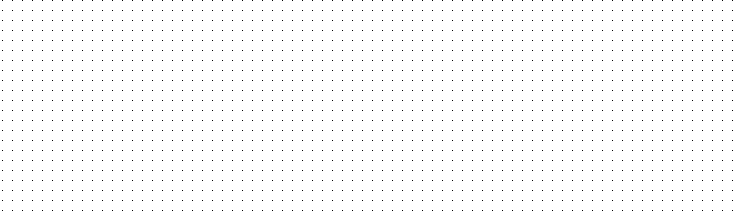
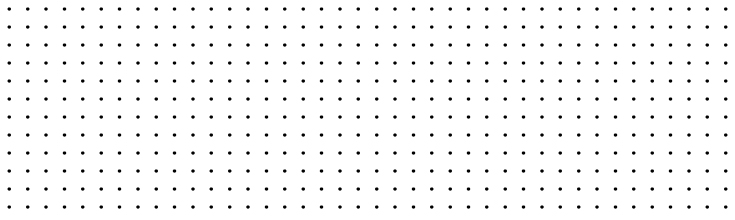
project-description modified, pattern modified

diff --git a/css/custom.min.css b/css/custom.min.css
@@ -1,2 +1,2 @@
-body{scroll-behavior:smooth}strong{color:#565963}strong.style2{color:#F3732A}.dropcap{color:#F3732A;float:left;font-size:85px;line-height:70px;padding-bottom:0;padding-top:6px;padding-right:2px;font-weight:500}@media screen and (min-width: 992px){.dropcap{font-size:130px;line-height:105px;padding-bottom:0;padding-top:2px}}@media (max-width: 480px){.breaktext-sm{display:inline-block}}@media screen and (min-width: 768px){.breaktext-md{display:inline-block}}@media screen and (min-width: 1200px){.breaktext-lg{display:inline-block}}@media screen and (min-width: 1600px){.breaktext-xl{display:inline-block}}.valign-top{vertical-align:top !important}.two-column-section{position:relative;display:block;padding-top:30px;padding-bottom:30px}@media screen and (min-width: 992px){.two-column-section{padding:75px 0}}.two-column-section>.two-column-section-item:not(:first-of-type){padding-top:50px}@media screen and (min-width: 992px){.two-column-section>.two-column-section-item:not(:first-of-type){padding-top:75px}}.btn-one,.btn-one:hover{background-color:#F3732A}.btn-one:hover{background-color:#F3732A !important}.about-style2-image-box .overlay-box .button a span:before{background-color:#F3732A}.scroll-to-top,.scroll-to-top-style2{background-color:#F3732A;border-color:#F3732A}.icon:hover{color:#F3732A !important}a{color:#F3732A}.sec-title p{color:#F3732A}.breadcrumb-area .inner-content-box .title-s2 span{color:#F3732A}.about-style2-text .authorised-info .name p{color:#F3732A}.project-info-content .project-info-title:before{background-color:#F3732A}.main-menu .navigation>li:hover>a,.main-menu .navigation>li.current>a{color:#F3732A}.how-work-box .how-works-content ul li .text span,.how-work-box .how-works-content ul li .icon span:before,.footer-bottom-area .copyright-text p a{color:#F3732A}.how-work-box .how-works-content ul li .text h3{color:#F3732A}.main-menu .navbar-header button.navbar-toggle{background-color:#F3732A;border:none}@media screen and (min-width: 992px){.main-menu .navbar-collapse>.navigation>.dropdown ul{width:300px;padding:5px 10px;-webkit-box-shadow:0 6px 15px rgba(0,0,0,0.08);box-shadow:0 6px 15px rgba(0,0,0,0.08)}}.main-menu .navbar-collapse>.navigation>li:hover,.main-menu .navbar-collapse>.navigation>li:active,.main-menu .navbar-collapse>.navigation>li:visited{background-color:#F3732A}@media screen and (min-width: 992px){.main-menu .navbar-collapse>.navigation>li:hover,.main-menu .navbar-collapse>.navigation>li:active,.main-menu .navbar-collapse>.navigation>li:visited{background-color:unset !important}}.main-menu .navbar-collapse>.navigation>li:hover a:hover,.main-menu .navbar-collapse>.navigation>li:hover a:active,.main-menu .navbar-collapse>.navigation>li:hover a:visited,.main-menu .navbar-collapse>.navigation>li:active a:hover,.main-menu .navbar-collapse>.navigation>li:active a:active,.main-menu .navbar-collapse>.navigation>li:active a:visited,.main-menu .navbar-collapse>.navigation>li:visited a:hover,.main-menu .navbar-collapse>.navigation>li:visited a:active,.main-menu .navbar-collapse>.navigation>li:visited a:visited{background-color:#F3732A !important}@media screen and (min-width: 992px){.main-menu .navbar-collapse>.navigation>li:hover a:hover,.main-menu .navbar-collapse>.navigation>li:hover a:active,.main-menu .navbar-collapse>.navigation>li:hover a:visited,.main-menu .navbar-collapse>.navigation>li:active a:hover,.main-menu .navbar-collapse>.navigation>li:active a:active,.main-menu .navbar-collapse>.navigation>li:active a:visited,.main-menu .navbar-collapse>.navigation>li:visited a:hover,.main-menu .navbar-collapse>.navigation>li:visited a:active,.main-menu .navbar-collapse>.navigation>li:visited a:visited{background-color:unset !important}}.main-menu .navbar-collapse>.navigation>li.current>a{background-color:#F3732A !important}@media screen and (min-width: 992px){.main-menu .navbar-collapse>.navigation>li.current>a{background-color:unset !important}}.header-contact-info li .single-item .text h3{text-transform:none}.main-header .header-upper-style1.fixed-header .logo-box-style1{margin:0}@media screen and (min-width: 768px){.main-header .header-upper-style1.fixed-header .logo-box-style1{top:20px}}.main-header .logo-box-style1{position:absolute;left:10px;top:27px;margin:0;padding:0}.main-header .logo-box-style1 .header__logo{height:25px}@media screen and (min-width: 768px){.main-header .logo-box-style1 .header__logo{height:35px}}.main-header .header-lower-style1 .inner-content{border-right:none}.main-header .header-lower-style1 .inner-content>.header-contact-info{border-left:none}.main-header .header-lower-style1 .inner-content>.header-contact-info>li:last-child{border:none}.main-header .header-lower-style1 .inner-content>.header-contact-info>li:hover .single-item>.icon>span::before{color:#F3732A !important}.main-menu .navigation>li>ul>li>a:hover{color:#F3732A}.main-menu .navigation>li>ul>li>a::after{background:url("/images/icon/dropdown-menu-arrow-orange.png")}.top-bar-style2{background-color:#27282c}.top-bar-style2 .top-style2-left p span::before{color:#F3732A}.top-bar-style2 .top-style2-right .top-right-menu{padding-right:0;margin-right:0}.top-bar-style2 .top-style2-right .top-right-menu::before{content:none}.top-bar-style2 .top-style2-right .top-right-menu li a{color:white}.top-bar-style2 li,.top-bar-style2 p,.top-bar-style2 .top-style2-left li,.top-bar-style2 .top-style2-right li{color:white}.main-header .logo-box-style2{margin:30px 0}.main-header .logo-box-style2 .header__logo{height:25px;width:auto}@media screen and (min-width: 768px){.main-header .logo-box-style2 .header__logo{height:35px}}.breadcrumb-area.breadcrumb-technology{background-image:url(../images/projects/pecsi_kodaly/480/VONALSUGARZO_Kodaly_Pecs_004_480px.jpg)}@media screen and (min-width: 768px){.breadcrumb-area.breadcrumb-technology{background-image:url(../images/projects/pecsi_kodaly/768/VONALSUGARZO_Kodaly_Pecs_004_768px.jpg)}}@media screen and (min-width: 1200px){.breadcrumb-area.breadcrumb-technology{background-image:url(../images/projects/pecsi_kodaly/1024/VONALSUGARZO_Kodaly_Pecs_004_1024px.jpg)}}@media screen and (min-width: 1600px){.breadcrumb-area.breadcrumb-technology{background-image:url(../images/projects/pecsi_kodaly/1680/VONALSUGARZO_Kodaly_Pecs_004_1680px.jpg)}}.breadcrumb-area.breadcrumb-aboutus{background-image:url(../images/projects/pecsi_kodaly/480/VONALSUGARZO_Kodaly_Pecs_004_480px.jpg)}@media screen and (min-width: 768px){.breadcrumb-area.breadcrumb-aboutus{background-image:url(../images/projects/pecsi_kodaly/768/VONALSUGARZO_Kodaly_Pecs_004_768px.jpg)}}@media screen and (min-width: 1200px){.breadcrumb-area.breadcrumb-aboutus{background-image:url(../images/projects/pecsi_kodaly/1024/VONALSUGARZO_Kodaly_Pecs_004_1024px.jpg)}}@media screen and (min-width: 1600px){.breadcrumb-area.breadcrumb-aboutus{background-image:url(../images/projects/pecsi_kodaly/1680/VONALSUGARZO_Kodaly_Pecs_004_1680px.jpg)}}.breadcrumb-area.breadcrumb-references{background-image:url(../images/projects/pecsi_kodaly/480/VONALSUGARZO_Kodaly_Pecs_004_480px.jpg)}@media screen and (min-width: 768px){.breadcrumb-area.breadcrumb-references{background-image:url(../images/projects/pecsi_kodaly/768/VONALSUGARZO_Kodaly_Pecs_004_768px.jpg)}}@media screen and (min-width: 1200px){.breadcrumb-area.breadcrumb-references{background-image:url(../images/projects/pecsi_kodaly/1024/VONALSUGARZO_Kodaly_Pecs_004_1024px.jpg)}}@media screen and (min-width: 1600px){.breadcrumb-area.breadcrumb-references{background-image:url(../images/projects/pecsi_kodaly/1680/VONALSUGARZO_Kodaly_Pecs_004_1680px.jpg)}}.project-description-area{padding-bottom:30px}@media screen and (min-width: 992px){.project-description-area{padding-bottom:75px}}.project-description-area .bottpm-text>p:last-of-type{margin-bottom:0}.sec-text-area .text:first-of-type{padding-top:50px}.sec-text-area .text:not(:last-of-type){padding-bottom:30px}.sec-text-area .text>p{font-size:15px}@media screen and (min-width: 992px){.sec-text-area .text>p{font-size:17px}}.sec-text-area .text>p:not(:last-child){padding-bottom:1.2em}.sec-text-area .text .img-holder{margin-bottom:0;padding-bottom:1.2em}.sec-text-area .lead-text{font-size:17px;line-height:165%}.sec-text-area .sec-title{padding-bottom:1.2em}.sec-text-area .sec-text-lead{font-size:17px}.sec-text-area .sec-text-big{font-size:15px;line-height:165%}.sec-text-area .sec-text-big>p{margin-bottom:1.2em}@media screen and (min-width: 768px){.sec-text-area .sec-text-big{font-size:22px}}.sec-text-area .img-holder{margin-bottom:50px}.breadcrumb-area.style2::after{content:"";position:absolute;top:0;left:0;width:100%;height:100%;background-color:rgba(0,0,0,0.6);display:block;z-index:-1}.single-footer-widget .services-links ul>li>a::before,.single-footer-widget .usefull-links ul>li>a::before{color:#F3732A}.single-footer-widget .services-links ul>li>a:hover::before,.single-footer-widget .services-links ul>li>a:active::before,.single-footer-widget .services-links ul>li>a:focus::before,.single-footer-widget .usefull-links ul>li>a:hover::before,.single-footer-widget .usefull-links ul>li>a:active::before,.single-footer-widget .usefull-links ul>li>a:focus::before{color:#f79956}.single-footer-widget .services-links ul>li.dropdown:hover>ul,.single-footer-widget .services-links ul>li.dropdown:active>ul,.single-footer-widget .services-links ul>li.dropdown:focus>ul,.single-footer-widget .usefull-links ul>li.dropdown:hover>ul,.single-footer-widget .usefull-links ul>li.dropdown:active>ul,.single-footer-widget .usefull-links ul>li.dropdown:focus>ul{display:block}.single-footer-widget .services-links ul>li.dropdown>ul,.single-footer-widget .usefull-links ul>li.dropdown>ul{display:none}.single-footer-widget .services-links ul>li.dropdown>ul>li,.single-footer-widget .usefull-links ul>li.dropdown>ul>li{padding-top:.2em;border-bottom:none;line-height:35px}.single-footer-widget .services-links ul>li.dropdown>ul>li:first-of-type,.single-footer-widget .usefull-links ul>li.dropdown>ul>li:first-of-type{padding-top:.85em}.single-footer-widget .services-links ul>li.dropdown>ul>li a::before,.single-footer-widget .usefull-links ul>li.dropdown>ul>li a::before{content:none}.footer-area,.footer-area.style4{background-color:#27282c}.footer-bottom-area,.footer-bottom-area.style3{background:#1f1f23}.footer-bottom-area .copyright-text p,.footer-bottom-area.style3 .copyright-text p{color:white}.footer-area .footer-shape-bg{background:url("/images/footer/footer-shape.png")}.footer-area .footer-logo img{max-height:50px}.footer-area .single-footer-widget .contact-info-box>ul>li{vertical-align:middle;padding-bottom:15px}.footer-area .single-footer-widget .contact-info-box>ul>li>.icon{vertical-align:middle;display:inline-block;width:42px;font-size:40px;margin-right:.2em}.footer-area .single-footer-widget .contact-info-box>ul>li>.icon>span{display:block}.footer-area .single-footer-widget .contact-info-box>ul>li>.icon>span::before{color:#565963;opacity:1}.footer-area .single-footer-widget .contact-info-box>ul>li>.text{display:inline-block;vertical-align:middle}.footer-area .single-footer-widget .contact-info-box>ul>li>.text>h6{border-bottom-width:1px}.footer-area .single-footer-widget .contact-info-box>ul>li>.text>p{margin-top:4px}.footer-area .single-footer-widget .contact-info-box>ul>li>.text>p>span{display:block;font-size:0.85em;line-height:100%}.footer-area .single-footer-widget .services-links ul li a,.footer-area .single-footer-widget .contact-info-box ul li p,.footer-area .single-footer-widget .our-info-box .text p,.footer-area .single-footer-widget .usefull-links ul li a{color:white}.footer-area .single-footer-widget .contact-info-box ul li h6{border-bottom-color:#565963}.footer-area .single-footer-widget>.title::before{background-color:#565963}.footer-area .single-footer-widget>.title::after{background-color:#565963}.footer-bottom-area .footer-interton-section{display:block;padding-left:15px;padding-right:15px;padding-top:15px}@media screen and (min-width: 768px){.footer-bottom-area .footer-interton-section{padding-left:50px;padding-top:0;padding-right:0}}.footer-bottom-area .footer-interton-section>.img-holder{width:auto;height:45px}.footer-bottom-area .footer-interton-section>.img-holder>img{-o-object-fit:contain;object-fit:contain;height:100%}.footer-area.style4 .footer-logo>a>img{max-height:36px}.footer-bottom-area.style3 .copyright-text{display:inline-block}.footer-bottom-area.style3 .footer-interton-section{display:inline-block;text-align:center}.footer-bottom-area.style3 .footer-interton-section>.img-holder{width:100%}.footer-contact-info-area .single-footer-contact-info>.inner>.icon>span::before{color:#F3732A}.header__logo{-o-object-fit:contain;object-fit:contain;width:165px;max-height:30px}@media screen and (min-width: 768px){.header__logo{width:165px;max-height:unset}}.main-slider .rev_slider .active-revslide .bg-filter{opacity:1;-webkit-transition:all 1s;transition:all 1s}.main-slider .rev_slider .bg-filter{opacity:0;-webkit-transition:all 1s;transition:all 1s;content:"";position:absolute;top:0;left:0;width:100%;height:100%;background-color:rgba(0,0,0,0.6);display:block;z-index:5 !important}.technology-area{background-color:#27282c}.technology-area .about-style2-image-box>.slideInUp{background-color:#1f1f23}.technology-area .about-style2-image-box .overlay-box>.title h1{vertical-align:middle}.technology-area .about-style2-image-box .overlay-box>.title h1>span{top:-2px;line-height:18px;vertical-align:baseline}.technology-area .about-style2-text>.sec-title>p{color:white}.technology-area .about-style2-text>.sec-title>.title{color:white}.technology-area .about-style2-text>.text>p{color:white}.technology-area .text{padding-top:30px}.technology-area .text>p:not(:last-of-type){padding-bottom:1.2em}.technology-area .button{padding-top:0}.products-overview-area .text-holder{z-index:0}.products-overview-area .text-holder>.icon-holder{display:none}.products-overview-area .img-holder{position:relative;overflow:hidden;max-height:250px;min-height:250px}.products-overview-area .img-holder>img{-o-object-fit:cover;object-fit:cover;height:100%;width:100%}.project-filter li:hover .filter-text,.project-filter li.active .filter-text,.filter-text .count{color:#F3732A !important}.project-description-area.product-description-area .img-holder,.project-info-area.product-info-area .img-holder,.about-us-description-area .img-holder{width:100%;position:relative;overflow:hidden;height:350px}@media screen and (min-width: 1200px){.project-description-area.product-description-area .img-holder,.project-info-area.product-info-area .img-holder,.about-us-description-area .img-holder{max-height:unset}}.project-description-area.product-description-area .img-holder>img,.project-info-area.product-info-area .img-holder>img,.about-us-description-area .img-holder>img{-o-object-fit:cover;object-fit:cover;-o-object-position:center;object-position:center;width:100%;position:absolute;top:50%;left:50%;-webkit-transform:translateX(-50%) translateY(-50%);transform:translateX(-50%) translateY(-50%)}.project-description-area.product-description-area .img-holder{overflow:hidden;float:none;position:relative}@media screen and (min-width: 1200px){.project-description-area.product-description-area .img-holder{float:right;width:795px;height:540px}}.project-info-area.product-info-area .img-holder{overflow:hidden;float:none;position:relative}@media screen and (min-width: 1200px){.project-info-area.product-info-area .img-holder{float:left;width:795px;height:540px}}.project-info-area.product-info-area .title>span{display:block}.about-us-description-area .img-holder{overflow:hidden;float:none;position:relative}@media screen and (min-width: 1200px){.about-us-description-area .img-holder{float:right;width:795px;height:540px}}.why-choose-area{padding-top:160px;padding-bottom:160px;position:relative}.why-choose-area::before{content:"";position:absolute;display:block;top:0;left:0;width:100%;height:100%;background-color:rgba(255,255,255,0.65)}.why-choose-area .single-box.orangebg{background-color:#F3732A}.why-choose-area .single-box.orangebg .icon-holder::before{background-color:#f79956}.why-choose-area .single-box.orangebg .text-holder>h3{color:white}.why-choose-area .single-box.whitebg .text-holder>h3{color:#F3732A}.why-choose-area .single-box.whitebg .icon-holder::before{background-color:#fff4ec}.why-choose-area .single-box.whitebg .icon-holder span::before{color:#F3732A}.why-choose-area .single-box.blackbg .text-holder>h3{color:white}.why-choose-area .single-box .text-holder>h3{color:#F3732A}.why-choose-area .why-choose-title ul li::before{color:#F3732A}@media screen and (min-width: 1200px){.why-choose-area .why-choose-title{height:100%;padding-bottom:0px}}.why-choose-area .why-choose-title .sec-title{padding-bottom:30px}.why-choose-area .why-choose-title .sec-title .title{font-size:22px;line-height:165%}.why-choose-area .why-choose-title .button{margin-top:85px;background-color:#F3732A}.why-choose-area .why-choose-title .button::before{background-color:#F3732A}.why-choose-area .why-choose-title .button>a.btn-one{text-transform:none;background-color:#F3732A}.why-choose-area .icon{height:65px}.why-choose-area .icon>img{width:100%;max-width:120px}.testimonial-area .single-testimonial-item .quote-icon{background-color:#F3732A}.testimonial-area .single-testimonial-item .client-info{padding-bottom:0}.testimonial-area .single-testimonial-item .img-box{display:none}.testimonial-area.testimonial-index{padding-bottom:110px}.recently-project-area .single-project-style1{position:relative}.recently-project-area .single-project-style1 .img-holder{width:100%;height:100%;height:300px}.recently-project-area .single-project-style1 .img-holder>img{-o-object-fit:cover;object-fit:cover;-o-object-position:center;object-position:center;height:100%;width:100%}.recently-project-area .single-project-style1 .link-box{display:none !important}.recently-project-area .single-project-style1 .single-project-link{position:absolute;display:block;top:0;left:0;width:100%;height:100%;z-index:100}.recently-project-area.inner-content>.project-row:not(:last-of-type){padding-bottom:110px}.recently-project-area.inner-content .owl-stage-outer{overflow:unset}.recently-project-area.inner-content .owl-dots{display:none !important}.recently-project-area.inner-content .single-project-style1 .img-holder{-webkit-transition:all 0.3s ease;transition:all 0.3s ease}.recently-project-area.inner-content .single-project-style1 .overlay-content{display:none;-webkit-transition:none;transition:none}.recently-project-area.overview-style{padding-top:110px;padding-bottom:70px}.recently-project-area.overview-style .owl-dots{display:none !important}.similar-projects-area{position:relative}.similar-projects-area .img-holder{height:265px}.similar-projects-area .img-holder::before{content:none}.similar-projects-area .img-holder>img{-o-object-fit:cover;object-fit:cover;height:100%;width:100%}.similar-projects-area.similar-projects-subsite.dark{background-color:#27282c;padding-bottom:30px}@media screen and (min-width: 992px){.similar-projects-area.similar-projects-subsite.dark{padding-bottom:50px}}.similar-projects-area.similar-projects-subsite.dark::before{content:"";position:absolute;top:0;right:0;height:100%;width:360px;background:url(../images/footer/footer-shape.png);background-position:top;background-repeat:no-repeat;background-size:initial}.similar-projects-area.similar-projects-subsite.dark::after{content:"";display:block;position:absolute;bottom:0;left:50%;-webkit-transform:translateX(-50%);transform:translateX(-50%);width:100%;height:2px;background:#1f1f23;background:-webkit-gradient(linear, left top, right top, from(rgba(0,0,0,0)), color-stop(50%, rgba(0,0,0,0.2)), to(rgba(0,0,0,0)));background:linear-gradient(90deg, rgba(0,0,0,0) 0%, rgba(0,0,0,0.2) 50%, rgba(0,0,0,0) 100%)}@media screen and (min-width: 992px){.similar-projects-area.similar-projects-subsite.dark::after{width:85%;max-width:850px}}.similar-projects-area.similar-projects-subsite.dark .similar-projects-content .similar-project-title>h2{color:white}.similar-projects-area.similar-projects-subsite.dark .similar-projects-content .title-holder h3,.similar-projects-area.similar-projects-subsite.dark .similar-projects-content .title-holder h3>a{color:white}.similar-projects-area.technology-images-area{padding:50px 0}@media screen and (min-width: 992px){.similar-projects-area.technology-images-area{padding-top:75px}}.similar-projects-area.technology-images-area .single-similar-project{position:relative;z-index:1}.similar-projects-area.technology-images-area .single-similar-project .title-holder h3{font-size:16px}.similar-projects-area.technology-images-area .single-similar-project .img-holder{-webkit-transition:all 0.3s ease;transition:all 0.3s ease}.similar-projects-area.technology-images-area .single-similar-project .img-holder>img{-webkit-transform:none;transform:none}.similar-projects-area.technology-images-area .single-similar-project .img-holder::before{display:none;content:none}.similar-projects-area.technology-images-area .single-similar-project:hover,.similar-projects-area.technology-images-area .single-similar-project:focus,.similar-projects-area.technology-images-area .single-similar-project:active{z-index:10}.similar-projects-area.technology-images-area .single-similar-project:hover .img-holder,.similar-projects-area.technology-images-area .single-similar-project:focus .img-holder,.similar-projects-area.technology-images-area .single-similar-project:active .img-holder{-webkit-transform:scale(1.3);transform:scale(1.3);-webkit-box-shadow:0 0 20px rgba(0,0,0,0.15);box-shadow:0 0 20px rgba(0,0,0,0.15)}.intro-box{-webkit-box-align:start;-ms-flex-align:start;align-items:flex-start}.milestones-area{padding:30px 0}@media screen and (min-width: 992px){.milestones-area{padding:50px 75px}}.milestones-area .milestones-box{position:relative;display:block}.milestones-area .milestones-box .milestones-title{padding-bottom:30px}.milestones-area .milestones-box .milestones-content{position:relative;display:block}.milestones-area .milestones-box .milestones-content ul{position:relative;display:block;overflow:hidden}.milestones-area .milestones-box .milestones-content ul li{position:relative;display:block;padding-left:20px;margin-bottom:26px}.milestones-area .milestones-box .milestones-content ul li .icon{position:absolute;top:2px;left:1px}.milestones-area .milestones-box .milestones-content ul li .icon>span{color:#F3732A}.milestones-area .milestones-box .milestones-content ul li .icon>span::before{font-size:20px}.milestones-area .milestones-box .milestones-content ul li .text{position:relative;display:block;padding-left:20px}.milestones-area .milestones-box .milestones-content ul li .text h3{color:#F3732A}.milestones-area .milestones-box .milestones-content ul li .text p{margin:0}.about-us-exposition-area{position:relative;display:block;margin-top:110px;padding:110px 0 50px}
+body{scroll-behavior:smooth}strong{color:#565963}strong.style2{color:#F3732A}.dropcap{color:#F3732A;float:left;font-size:85px;line-height:70px;padding-bottom:0;padding-top:6px;padding-right:2px;font-weight:500}@media screen and (min-width: 992px){.dropcap{font-size:130px;line-height:105px;padding-bottom:0;padding-top:2px}}@media (max-width: 480px){.breaktext-sm{display:inline-block}}@media screen and (min-width: 768px){.breaktext-md{display:inline-block}}@media screen and (min-width: 1200px){.breaktext-lg{display:inline-block}}@media screen and (min-width: 1600px){.breaktext-xl{display:inline-block}}.valign-top{vertical-align:top !important}.two-column-section{position:relative;display:block;padding-top:30px;padding-bottom:30px}@media screen and (min-width: 992px){.two-column-section{padding:75px 0}}.two-column-section>.two-column-section-item:not(:first-of-type){padding-top:50px}@media screen and (min-width: 992px){.two-column-section>.two-column-section-item:not(:first-of-type){padding-top:75px}}.btn-one,.btn-one:hover{background-color:#F3732A}.btn-one:hover{background-color:#F3732A !important}.about-style2-image-box .overlay-box .button a span:before{background-color:#F3732A}.scroll-to-top,.scroll-to-top-style2{background-color:#F3732A;border-color:#F3732A}.icon:hover{color:#F3732A !important}a{color:#F3732A}.sec-title p{color:#F3732A}.breadcrumb-area .inner-content-box .title-s2 span{color:#F3732A}.about-style2-text .authorised-info .name p{color:#F3732A}.project-info-content .project-info-title:before{background-color:#F3732A}.main-menu .navigation>li:hover>a,.main-menu .navigation>li.current>a{color:#F3732A}.how-work-box .how-works-content ul li .text span,.how-work-box .how-works-content ul li .icon span:before,.footer-bottom-area .copyright-text p a{color:#F3732A}.how-work-box .how-works-content ul li .text h3{color:#F3732A}.main-menu .navbar-header button.navbar-toggle{background-color:#F3732A;border:none}@media screen and (min-width: 992px){.main-menu .navbar-collapse>.navigation>.dropdown ul{width:300px;padding:5px 10px;-webkit-box-shadow:0 6px 15px rgba(0,0,0,0.08);box-shadow:0 6px 15px rgba(0,0,0,0.08)}}.main-menu .navbar-collapse>.navigation>li:hover,.main-menu .navbar-collapse>.navigation>li:active,.main-menu .navbar-collapse>.navigation>li:visited{background-color:#F3732A}@media screen and (min-width: 992px){.main-menu .navbar-collapse>.navigation>li:hover,.main-menu .navbar-collapse>.navigation>li:active,.main-menu .navbar-collapse>.navigation>li:visited{background-color:unset !important}}.main-menu .navbar-collapse>.navigation>li:hover a:hover,.main-menu .navbar-collapse>.navigation>li:hover a:active,.main-menu .navbar-collapse>.navigation>li:hover a:visited,.main-menu .navbar-collapse>.navigation>li:active a:hover,.main-menu .navbar-collapse>.navigation>li:active a:active,.main-menu .navbar-collapse>.navigation>li:active a:visited,.main-menu .navbar-collapse>.navigation>li:visited a:hover,.main-menu .navbar-collapse>.navigation>li:visited a:active,.main-menu .navbar-collapse>.navigation>li:visited a:visited{background-color:#F3732A !important}@media screen and (min-width: 992px){.main-menu .navbar-collapse>.navigation>li:hover a:hover,.main-menu .navbar-collapse>.navigation>li:hover a:active,.main-menu .navbar-collapse>.navigation>li:hover a:visited,.main-menu .navbar-collapse>.navigation>li:active a:hover,.main-menu .navbar-collapse>.navigation>li:active a:active,.main-menu .navbar-collapse>.navigation>li:active a:visited,.main-menu .navbar-collapse>.navigation>li:visited a:hover,.main-menu .navbar-collapse>.navigation>li:visited a:active,.main-menu .navbar-collapse>.navigation>li:visited a:visited{background-color:unset !important}}.main-menu .navbar-collapse>.navigation>li.current>a{background-color:#F3732A !important}@media screen and (min-width: 992px){.main-menu .navbar-collapse>.navigation>li.current>a{background-color:unset !important}}.header-contact-info li .single-item .text h3{text-transform:none}.main-header .header-upper-style1.fixed-header .logo-box-style1{margin:0}@media screen and (min-width: 768px){.main-header .header-upper-style1.fixed-header .logo-box-style1{top:20px}}.main-header .logo-box-style1{position:absolute;left:10px;top:27px;margin:0;padding:0}.main-header .logo-box-style1 .header__logo{height:25px}@media screen and (min-width: 768px){.main-header .logo-box-style1 .header__logo{height:35px}}.main-header .header-lower-style1 .inner-content{border-right:none}.main-header .header-lower-style1 .inner-content>.header-contact-info{border-left:none}.main-header .header-lower-style1 .inner-content>.header-contact-info>li:last-child{border:none}.main-header .header-lower-style1 .inner-content>.header-contact-info>li:hover .single-item>.icon>span::before{color:#F3732A !important}.main-menu .navigation>li>ul>li>a:hover{color:#F3732A}.main-menu .navigation>li>ul>li>a::after{background:url("/images/icon/dropdown-menu-arrow-orange.png")}.top-bar-style2{background-color:#27282c}.top-bar-style2 .top-style2-left p span::before{color:#F3732A}.top-bar-style2 .top-style2-right .top-right-menu{padding-right:0;margin-right:0}.top-bar-style2 .top-style2-right .top-right-menu::before{content:none}.top-bar-style2 .top-style2-right .top-right-menu li a{color:white}.top-bar-style2 li,.top-bar-style2 p,.top-bar-style2 .top-style2-left li,.top-bar-style2 .top-style2-right li{color:white}.main-header .logo-box-style2{margin:30px 0}.main-header .logo-box-style2 .header__logo{height:25px;width:auto}@media screen and (min-width: 768px){.main-header .logo-box-style2 .header__logo{height:35px}}.breadcrumb-area.breadcrumb-technology{background-image:url(../images/projects/pecsi_kodaly/480/VONALSUGARZO_Kodaly_Pecs_004_480px.jpg)}@media screen and (min-width: 768px){.breadcrumb-area.breadcrumb-technology{background-image:url(../images/projects/pecsi_kodaly/768/VONALSUGARZO_Kodaly_Pecs_004_768px.jpg)}}@media screen and (min-width: 1200px){.breadcrumb-area.breadcrumb-technology{background-image:url(../images/projects/pecsi_kodaly/1024/VONALSUGARZO_Kodaly_Pecs_004_1024px.jpg)}}@media screen and (min-width: 1600px){.breadcrumb-area.breadcrumb-technology{background-image:url(../images/projects/pecsi_kodaly/1680/VONALSUGARZO_Kodaly_Pecs_004_1680px.jpg)}}.breadcrumb-area.breadcrumb-aboutus{background-image:url(../images/projects/pecsi_kodaly/480/VONALSUGARZO_Kodaly_Pecs_004_480px.jpg)}@media screen and (min-width: 768px){.breadcrumb-area.breadcrumb-aboutus{background-image:url(../images/projects/pecsi_kodaly/768/VONALSUGARZO_Kodaly_Pecs_004_768px.jpg)}}@media screen and (min-width: 1200px){.breadcrumb-area.breadcrumb-aboutus{background-image:url(../images/projects/pecsi_kodaly/1024/VONALSUGARZO_Kodaly_Pecs_004_1024px.jpg)}}@media screen and (min-width: 1600px){.breadcrumb-area.breadcrumb-aboutus{background-image:url(../images/projects/pecsi_kodaly/1680/VONALSUGARZO_Kodaly_Pecs_004_1680px.jpg)}}.breadcrumb-area.breadcrumb-references{background-image:url(../images/projects/pecsi_kodaly/480/VONALSUGARZO_Kodaly_Pecs_004_480px.jpg)}@media screen and (min-width: 768px){.breadcrumb-area.breadcrumb-references{background-image:url(../images/projects/pecsi_kodaly/768/VONALSUGARZO_Kodaly_Pecs_004_768px.jpg)}}@media screen and (min-width: 1200px){.breadcrumb-area.breadcrumb-references{background-image:url(../images/projects/pecsi_kodaly/1024/VONALSUGARZO_Kodaly_Pecs_004_1024px.jpg)}}@media screen and (min-width: 1600px){.breadcrumb-area.breadcrumb-references{background-image:url(../images/projects/pecsi_kodaly/1680/VONALSUGARZO_Kodaly_Pecs_004_1680px.jpg)}}.project-description-area{padding-bottom:30px}@media screen and (min-width: 992px){.project-description-area{padding-bottom:75px}}.project-description-area .pattern-bg>img{opacity:.2}@media screen and (min-width: 992px){.project-description-area .project-description-content:first-of-type{padding-top:100px}}.project-description-area .project-description-content .bottpm-text>p:last-of-type{margin-bottom:0}.sec-text-area .text:first-of-type{padding-top:50px}.sec-text-area .text:not(:last-of-type){padding-bottom:30px}.sec-text-area .text>p{font-size:15px}@media screen and (min-width: 992px){.sec-text-area .text>p{font-size:17px}}.sec-text-area .text>p:not(:last-child){padding-bottom:1.2em}.sec-text-area .text .img-holder{margin-bottom:0;padding-bottom:1.2em}.sec-text-area .lead-text{font-size:17px;line-height:165%}.sec-text-area .sec-title{padding-bottom:1.2em}.sec-text-area .sec-text-lead{font-size:17px}.sec-text-area .sec-text-big{font-size:15px;line-height:165%}.sec-text-area .sec-text-big>p{margin-bottom:1.2em}@media screen and (min-width: 768px){.sec-text-area .sec-text-big{font-size:22px}}.sec-text-area .img-holder{margin-bottom:50px}.breadcrumb-area.style2::after{content:"";position:absolute;top:0;left:0;width:100%;height:100%;background-color:rgba(0,0,0,0.6);display:block;z-index:-1}.single-footer-widget .services-links ul>li>a::before,.single-footer-widget .usefull-links ul>li>a::before{color:#F3732A}.single-footer-widget .services-links ul>li>a:hover::before,.single-footer-widget .services-links ul>li>a:active::before,.single-footer-widget .services-links ul>li>a:focus::before,.single-footer-widget .usefull-links ul>li>a:hover::before,.single-footer-widget .usefull-links ul>li>a:active::before,.single-footer-widget .usefull-links ul>li>a:focus::before{color:#f79956}.single-footer-widget .services-links ul>li.dropdown:hover>ul,.single-footer-widget .services-links ul>li.dropdown:active>ul,.single-footer-widget .services-links ul>li.dropdown:focus>ul,.single-footer-widget .usefull-links ul>li.dropdown:hover>ul,.single-footer-widget .usefull-links ul>li.dropdown:active>ul,.single-footer-widget .usefull-links ul>li.dropdown:focus>ul{display:block}.single-footer-widget .services-links ul>li.dropdown>ul,.single-footer-widget .usefull-links ul>li.dropdown>ul{display:none}.single-footer-widget .services-links ul>li.dropdown>ul>li,.single-footer-widget .usefull-links ul>li.dropdown>ul>li{padding-top:.2em;border-bottom:none;line-height:35px}.single-footer-widget .services-links ul>li.dropdown>ul>li:first-of-type,.single-footer-widget .usefull-links ul>li.dropdown>ul>li:first-of-type{padding-top:.85em}.single-footer-widget .services-links ul>li.dropdown>ul>li a::before,.single-footer-widget .usefull-links ul>li.dropdown>ul>li a::before{content:none}.footer-area,.footer-area.style4{background-color:#27282c}.footer-bottom-area,.footer-bottom-area.style3{background:#1f1f23}.footer-bottom-area .copyright-text p,.footer-bottom-area.style3 .copyright-text p{color:white}.footer-area .footer-shape-bg{background:url("/images/footer/footer-shape.png")}.footer-area .footer-logo img{max-height:50px}.footer-area .single-footer-widget .contact-info-box>ul>li{vertical-align:middle;padding-bottom:15px}.footer-area .single-footer-widget .contact-info-box>ul>li>.icon{vertical-align:middle;display:inline-block;width:42px;font-size:40px;margin-right:.2em}.footer-area .single-footer-widget .contact-info-box>ul>li>.icon>span{display:block}.footer-area .single-footer-widget .contact-info-box>ul>li>.icon>span::before{color:#565963;opacity:1}.footer-area .single-footer-widget .contact-info-box>ul>li>.text{display:inline-block;vertical-align:middle}.footer-area .single-footer-widget .contact-info-box>ul>li>.text>h6{border-bottom-width:1px}.footer-area .single-footer-widget .contact-info-box>ul>li>.text>p{margin-top:4px}.footer-area .single-footer-widget .contact-info-box>ul>li>.text>p>span{display:block;font-size:0.85em;line-height:100%}.footer-area .single-footer-widget .services-links ul li a,.footer-area .single-footer-widget .contact-info-box ul li p,.footer-area .single-footer-widget .our-info-box .text p,.footer-area .single-footer-widget .usefull-links ul li a{color:white}.footer-area .single-footer-widget .contact-info-box ul li h6{border-bottom-color:#565963}.footer-area .single-footer-widget>.title::before{background-color:#565963}.footer-area .single-footer-widget>.title::after{background-color:#565963}.footer-bottom-area .footer-interton-section{display:block;padding-left:15px;padding-right:15px;padding-top:15px}@media screen and (min-width: 768px){.footer-bottom-area .footer-interton-section{padding-left:50px;padding-top:0;padding-right:0}}.footer-bottom-area .footer-interton-section>.img-holder{width:auto;height:45px}.footer-bottom-area .footer-interton-section>.img-holder>img{-o-object-fit:contain;object-fit:contain;height:100%}.footer-area.style4 .footer-logo>a>img{max-height:36px}.footer-bottom-area.style3 .copyright-text{display:inline-block}.footer-bottom-area.style3 .footer-interton-section{display:inline-block;text-align:center}.footer-bottom-area.style3 .footer-interton-section>.img-holder{width:100%}.footer-contact-info-area .single-footer-contact-info>.inner>.icon>span::before{color:#F3732A}.header__logo{-o-object-fit:contain;object-fit:contain;width:165px;max-height:30px}@media screen and (min-width: 768px){.header__logo{width:165px;max-height:unset}}.main-slider .rev_slider .active-revslide .bg-filter{opacity:1;-webkit-transition:all 1s;transition:all 1s}.main-slider .rev_slider .bg-filter{opacity:0;-webkit-transition:all 1s;transition:all 1s;content:"";position:absolute;top:0;left:0;width:100%;height:100%;background-color:rgba(0,0,0,0.6);display:block;z-index:5 !important}.technology-area{background-color:#27282c}.technology-area .about-style2-image-box>.slideInUp{background-color:#1f1f23}.technology-area .about-style2-image-box .overlay-box>.title h1{vertical-align:middle}.technology-area .about-style2-image-box .overlay-box>.title h1>span{top:-2px;line-height:18px;vertical-align:baseline}.technology-area .about-style2-text>.sec-title>p{color:white}.technology-area .about-style2-text>.sec-title>.title{color:white}.technology-area .about-style2-text>.text>p{color:white}.technology-area .text{padding-top:30px}.technology-area .text>p:not(:last-of-type){padding-bottom:1.2em}.technology-area .button{padding-top:0}.products-overview-area .text-holder{z-index:0}.products-overview-area .text-holder>.icon-holder{display:none}.products-overview-area .img-holder{position:relative;overflow:hidden;max-height:250px;min-height:250px}.products-overview-area .img-holder>img{-o-object-fit:cover;object-fit:cover;height:100%;width:100%}.project-filter li:hover .filter-text,.project-filter li.active .filter-text,.filter-text .count{color:#F3732A !important}.project-description-area.product-description-area .img-holder,.project-info-area.product-info-area .img-holder,.about-us-description-area .img-holder{width:100%;position:relative;overflow:hidden;height:350px}@media screen and (min-width: 1200px){.project-description-area.product-description-area .img-holder,.project-info-area.product-info-area .img-holder,.about-us-description-area .img-holder{max-height:unset}}.project-description-area.product-description-area .img-holder>img,.project-info-area.product-info-area .img-holder>img,.about-us-description-area .img-holder>img{-o-object-fit:cover;object-fit:cover;-o-object-position:center;object-position:center;width:100%;position:absolute;top:50%;left:50%;-webkit-transform:translateX(-50%) translateY(-50%);transform:translateX(-50%) translateY(-50%)}.project-description-area.product-description-area .img-holder{overflow:hidden;float:none;position:relative}@media screen and (min-width: 1200px){.project-description-area.product-description-area .img-holder{float:right;width:795px;height:540px}}.project-info-area.product-info-area .img-holder{overflow:hidden;float:none;position:relative}@media screen and (min-width: 1200px){.project-info-area.product-info-area .img-holder{float:left;width:795px;height:540px}}.project-info-area.product-info-area .title>span{display:block}.about-us-description-area .img-holder{overflow:hidden;float:none;position:relative}@media screen and (min-width: 1200px){.about-us-description-area .img-holder{float:right;width:795px;height:540px}}.why-choose-area{padding-top:160px;padding-bottom:160px;position:relative}.why-choose-area::before{content:"";position:absolute;display:block;top:0;left:0;width:100%;height:100%;background-color:rgba(255,255,255,0.65)}.why-choose-area .single-box.orangebg{background-color:#F3732A}.why-choose-area .single-box.orangebg .icon-holder::before{background-color:#f79956}.why-choose-area .single-box.orangebg .text-holder>h3{color:white}.why-choose-area .single-box.whitebg .text-holder>h3{color:#F3732A}.why-choose-area .single-box.whitebg .icon-holder::before{background-color:#fff4ec}.why-choose-area .single-box.whitebg .icon-holder span::before{color:#F3732A}.why-choose-area .single-box.blackbg .text-holder>h3{color:white}.why-choose-area .single-box .text-holder>h3{color:#F3732A}.why-choose-area .why-choose-title ul li::before{color:#F3732A}@media screen and (min-width: 1200px){.why-choose-area .why-choose-title{height:100%;padding-bottom:0px}}.why-choose-area .why-choose-title .sec-title{padding-bottom:30px}.why-choose-area .why-choose-title .sec-title .title{font-size:22px;line-height:165%}.why-choose-area .why-choose-title .button{margin-top:85px;background-color:#F3732A}.why-choose-area .why-choose-title .button::before{background-color:#F3732A}.why-choose-area .why-choose-title .button>a.btn-one{text-transform:none;background-color:#F3732A}.why-choose-area .icon{height:65px}.why-choose-area .icon>img{width:100%;max-width:120px}.testimonial-area .single-testimonial-item .quote-icon{background-color:#F3732A}.testimonial-area .single-testimonial-item .client-info{padding-bottom:0}.testimonial-area .single-testimonial-item .img-box{display:none}.testimonial-area.testimonial-index{padding-bottom:110px}.recently-project-area .single-project-style1{position:relative}.recently-project-area .single-project-style1 .img-holder{width:100%;height:100%;height:300px}.recently-project-area .single-project-style1 .img-holder>img{-o-object-fit:cover;object-fit:cover;-o-object-position:center;object-position:center;height:100%;width:100%}.recently-project-area .single-project-style1 .link-box{display:none !important}.recently-project-area .single-project-style1 .single-project-link{position:absolute;display:block;top:0;left:0;width:100%;height:100%;z-index:100}.recently-project-area.inner-content>.project-row:not(:last-of-type){padding-bottom:110px}.recently-project-area.inner-content .owl-stage-outer{overflow:unset}.recently-project-area.inner-content .owl-dots{display:none !important}.recently-project-area.inner-content .single-project-style1 .img-holder{-webkit-transition:all 0.3s ease;transition:all 0.3s ease}.recently-project-area.inner-content .single-project-style1 .overlay-content{display:none;-webkit-transition:none;transition:none}.recently-project-area.overview-style{padding-top:110px;padding-bottom:70px}.recently-project-area.overview-style .owl-dots{display:none !important}.similar-projects-area{position:relative}.similar-projects-area .img-holder{height:265px}.similar-projects-area .img-holder::before{content:none}.similar-projects-area .img-holder>img{-o-object-fit:cover;object-fit:cover;height:100%;width:100%}.similar-projects-area.similar-projects-subsite.dark{background-color:#27282c;padding-bottom:30px}@media screen and (min-width: 992px){.similar-projects-area.similar-projects-subsite.dark{padding-bottom:50px}}.similar-projects-area.similar-projects-subsite.dark::before{content:"";position:absolute;top:0;right:0;height:100%;width:360px;background:url(../images/footer/footer-shape.png);background-position:top;background-repeat:no-repeat;background-size:initial}.similar-projects-area.similar-projects-subsite.dark::after{content:"";display:block;position:absolute;bottom:0;left:50%;-webkit-transform:translateX(-50%);transform:translateX(-50%);width:100%;height:2px;background:#1f1f23;background:-webkit-gradient(linear, left top, right top, from(rgba(0,0,0,0)), color-stop(50%, rgba(0,0,0,0.2)), to(rgba(0,0,0,0)));background:linear-gradient(90deg, rgba(0,0,0,0) 0%, rgba(0,0,0,0.2) 50%, rgba(0,0,0,0) 100%)}@media screen and (min-width: 992px){.similar-projects-area.similar-projects-subsite.dark::after{width:85%;max-width:850px}}.similar-projects-area.similar-projects-subsite.dark .similar-projects-content .similar-project-title>h2{color:white}.similar-projects-area.similar-projects-subsite.dark .similar-projects-content .title-holder h3,.similar-projects-area.similar-projects-subsite.dark .similar-projects-content .title-holder h3>a{color:white}.similar-projects-area.technology-images-area{padding:50px 0}@media screen and (min-width: 992px){.similar-projects-area.technology-images-area{padding-top:75px}}.similar-projects-area.technology-images-area .single-similar-project{position:relative;z-index:1}.similar-projects-area.technology-images-area .single-similar-project .title-holder h3{font-size:16px}.similar-projects-area.technology-images-area .single-similar-project .img-holder{-webkit-transition:all 0.3s ease;transition:all 0.3s ease}.similar-projects-area.technology-images-area .single-similar-project .img-holder>img{-webkit-transform:none;transform:none}.similar-projects-area.technology-images-area .single-similar-project .img-holder::before{display:none;content:none}.similar-projects-area.technology-images-area .single-similar-project:hover,.similar-projects-area.technology-images-area .single-similar-project:focus,.similar-projects-area.technology-images-area .single-similar-project:active{z-index:10}.similar-projects-area.technology-images-area .single-similar-project:hover .img-holder,.similar-projects-area.technology-images-area .single-similar-project:focus .img-holder,.similar-projects-area.technology-images-area .single-similar-project:active .img-holder{-webkit-transform:scale(1.3);transform:scale(1.3);-webkit-box-shadow:0 0 20px rgba(0,0,0,0.15);box-shadow:0 0 20px rgba(0,0,0,0.15)}.intro-box{-webkit-box-align:start;-ms-flex-align:start;align-items:flex-start}.milestones-area{padding:30px 0}@media screen and (min-width: 992px){.milestones-area{padding:50px 75px}}.milestones-area .milestones-box{position:relative;display:block}.milestones-area .milestones-box .milestones-title{padding-bottom:30px}.milestones-area .milestones-box .milestones-content{position:relative;display:block}.milestones-area .milestones-box .milestones-content ul{position:relative;display:block;overflow:hidden}.milestones-area .milestones-box .milestones-content ul li{position:relative;display:block;padding-left:20px;margin-bottom:26px}.milestones-area .milestones-box .milestones-content ul li .icon{position:absolute;top:2px;left:1px}.milestones-area .milestones-box .milestones-content ul li .icon>span{color:#F3732A}.milestones-area .milestones-box .milestones-content ul li .icon>span::before{font-size:20px}.milestones-area .milestones-box .milestones-content ul li .text{position:relative;display:block;padding-left:20px}.milestones-area .milestones-box .milestones-content ul li .text h3{color:#F3732A}.milestones-area .milestones-box .milestones-content ul li .text p{margin:0}.about-us-exposition-area{position:relative;display:block;margin-top:110px;padding:110px 0 50px}
 /*# sourceMappingURL=custom.min.css.map */

diff --git a/scss/custom.scss b/scss/custom.scss
@@ -418,11 +418,28 @@ a {
         padding-bottom: $padding-medium;
     }
 
-    .bottpm-text{
-        >p:last-of-type{
-            margin-bottom: 0;
+    .pattern-bg{
+        >img{
+            opacity: .2;
         }
     }
+
+    .project-description-content{
+
+        &:first-of-type{
+            @include mqSmallScreen{
+                padding-top: 100px;
+            }
+        }
+
+        .bottpm-text{
+            >p:last-of-type{
+                margin-bottom: 0;
+            }
+        }
+    }
+
+    
 }
 
 .sec-text-area {

diff --git a/about.html b/about.html
@@ -147,7 +147,7 @@
                     <div class="col-xl-5">
                         <div class="project-description-image-box">
                             <div class="img-holder">
-                                <img src="images/resources/technology-section-1.jpg" alt="Awesome Image">
+                                <img src="images/projects/aquaworld/1024/VONALSUGARZO_Aquaworld_002_1024px.jpg" alt="Awesome Image">
                             </div>
                         </div>
                     </div>

diff --git a/css/custom.css b/css/custom.css
@@ -373,7 +373,17 @@ a {
   }
 }
 
-.project-description-area .bottpm-text > p:last-of-type {
+.project-description-area .pattern-bg > img {
+  opacity: .2;
+}
+
+@media screen and (min-width: 992px) {
+  .project-description-area .project-description-content:first-of-type {
+    padding-top: 100px;
+  }
+}
+
+.project-description-area .project-description-content .bottpm-text > p:last-of-type {
   margin-bottom: 0;
 }
 
